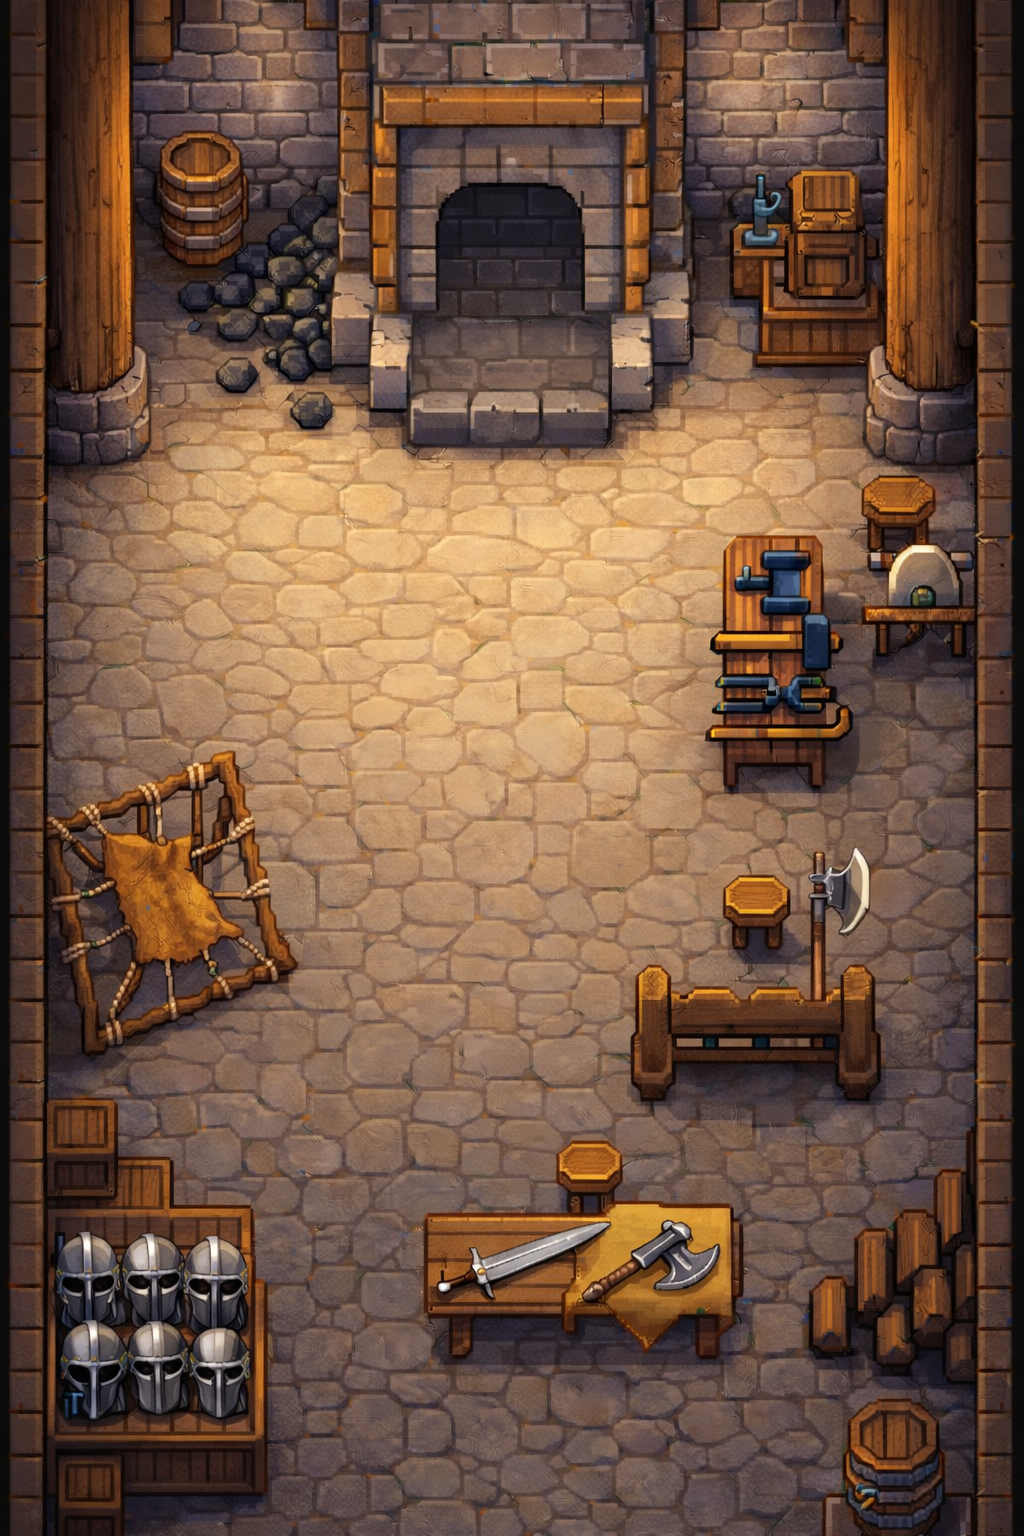
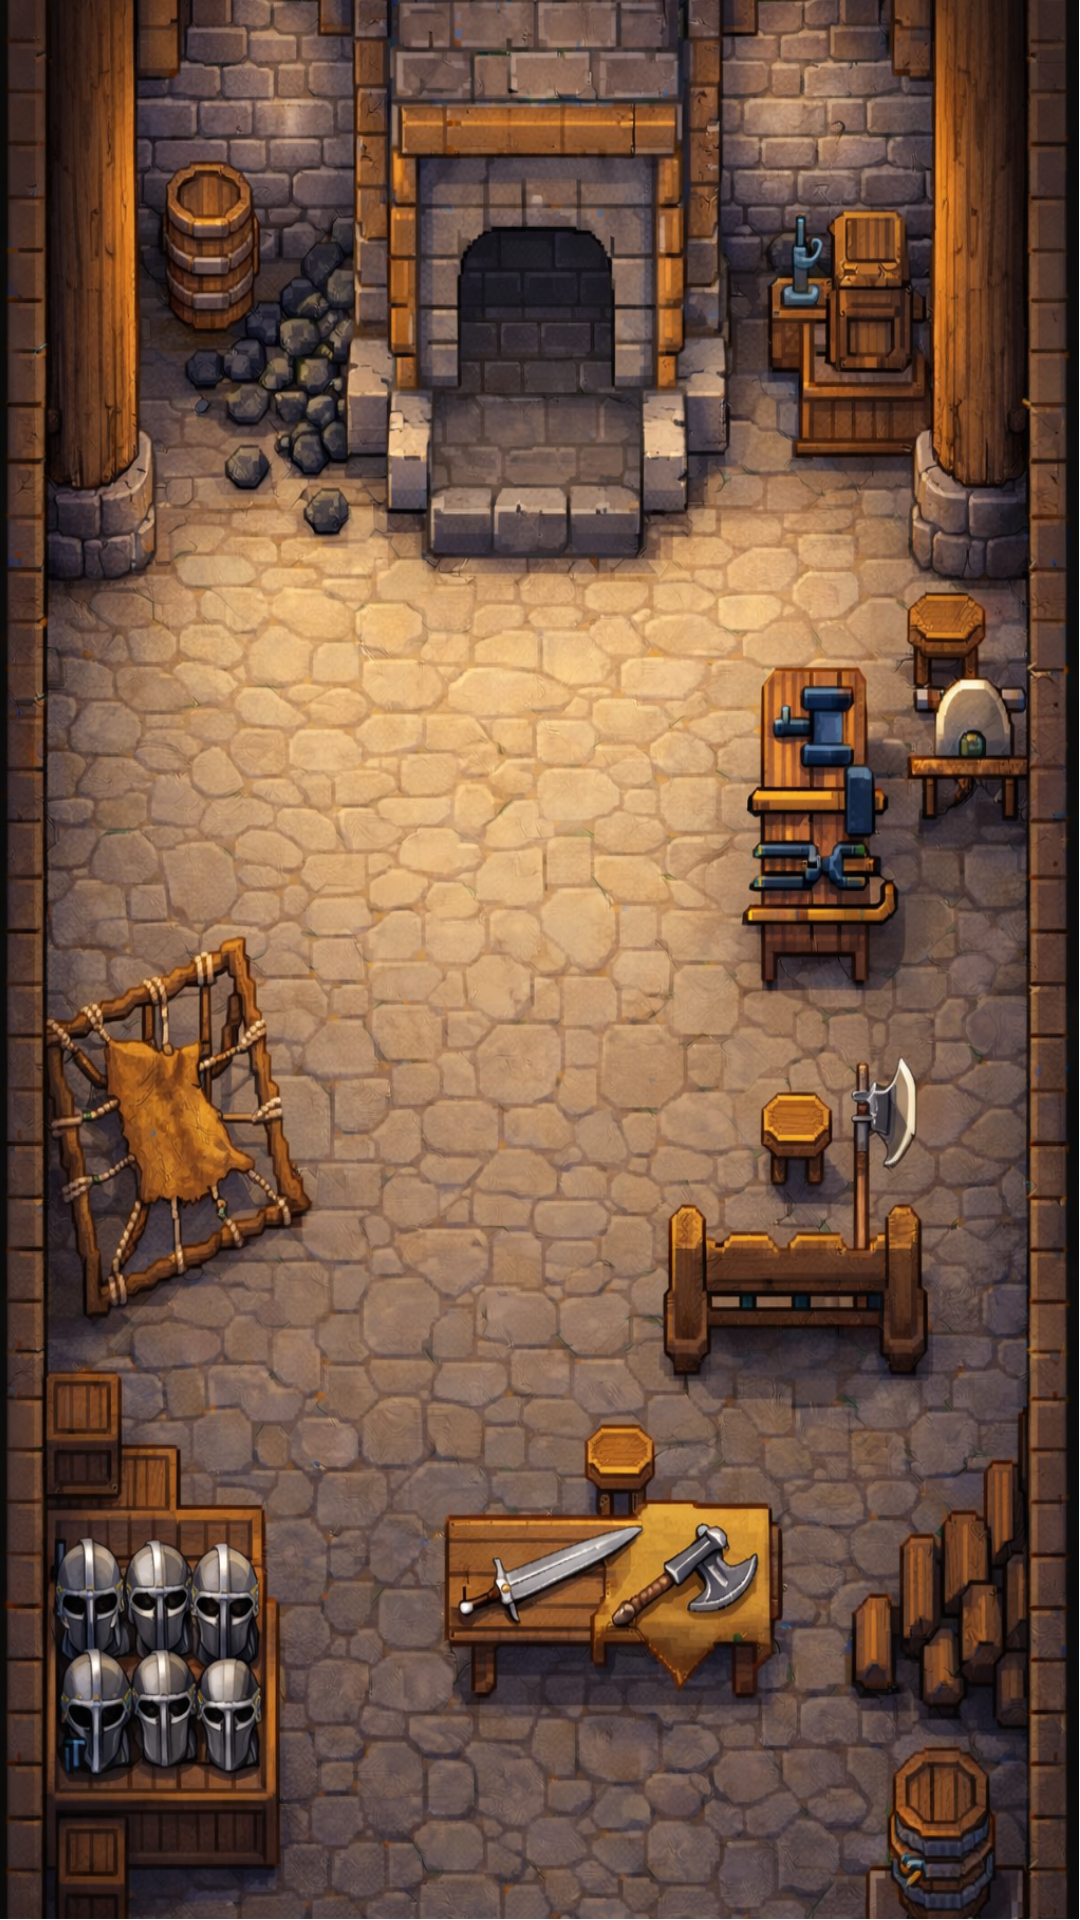
Фон кузни

diff --git a/static/css/forge.css b/static/css/forge.css
@@ -1,7 +1,7 @@
 .forge-img{
   width: 100%;
   height: 100%;
-  object-fit: cover;
+  object-fit: fill;
 }
 
 @keyframes forgePulse {
@@ -237,7 +237,7 @@
   inset: 0;
   width: 100%;
   height: 100%;
-  object-fit: contain;   /* ВОТ ЭТО ГЛАВНОЕ */
+  object-fit: fill;
   object-position: center center;
 }
 /* Весь UI кузни поверх фона */
